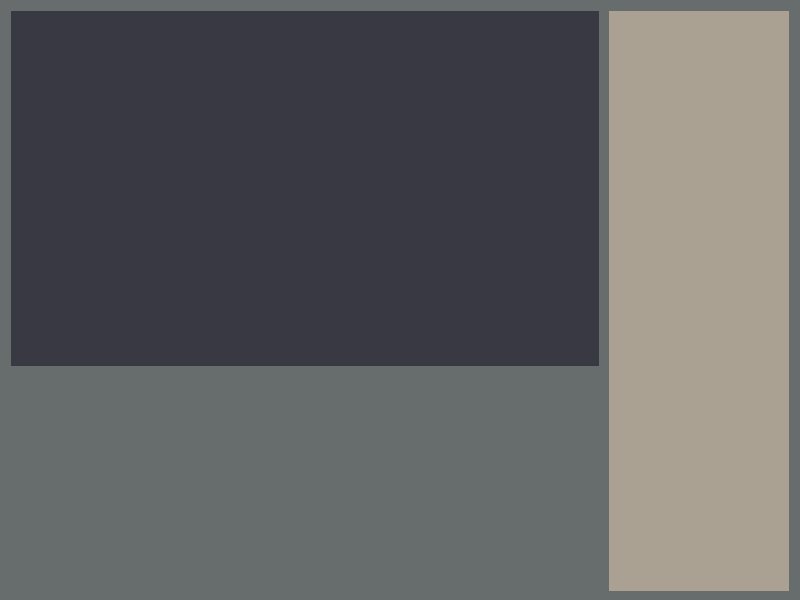
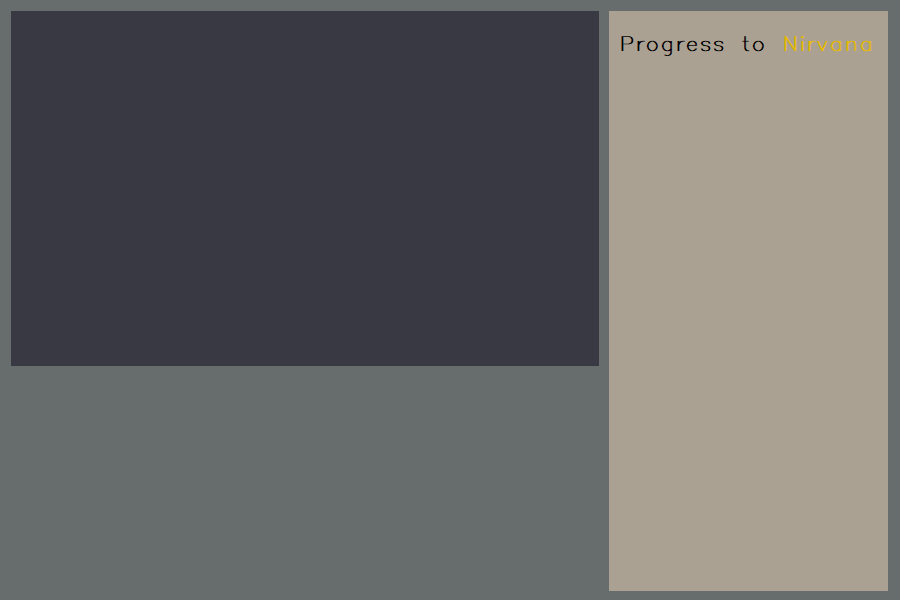
Main game

Changed region(s): [[0.6562, 0.0, 0.9688, 0.99]]

diff --git a/main.py b/main.py
@@ -20,21 +20,26 @@ class Button:
 
 # for each button check if it was pressed
 def do_roll(mouse_pos):
+    global scroll
     for b in buttons:
         if ((mouse_pos[0] > b.rect[0]) and
                 (mouse_pos[0] < b.rect[0] + b.rect[2]) and
                 (mouse_pos[1] > b.rect[1]) and
                 (mouse_pos[1] < b.rect[1] + b.rect[3])):
 
-            # change curr_pos here
-            need = True
-            while need:
-                num = roll()
-                if num in moves[player.curr_pos]:  # valid roll
-                    need = False
-                    player.curr_pos = moves[player.curr_pos][num]
+            #Check win
+            if player.curr_pos == 104:
+                print('you won!')
+            else:
+                # change curr_pos here
+                need = True
+                while need:
+                    num = roll()
+                    if num in moves[player.curr_pos]:  # valid roll
+                        need = False
+                        player.curr_pos = moves[player.curr_pos][num]
 
-            # print("You rolled: ", num)
+            scroll = 0
             return b.name
 
 
@@ -47,6 +52,21 @@ def draw():
 
     # Main text
     draw_text(screen, texts[player.curr_pos], WHITE, [20, 50, 550, 300], scroll)
+
+    block_size = 30
+    # grid
+    for y in range(13):
+        for x in range(8):
+            rect = pygame.Rect((x+18)*(block_size+4.15), (y+2.15)*(block_size+9), block_size, block_size)
+            pos = (13-(y+1))*8 + (x+1)
+            if pos == 104:  # Nirvana
+                pygame.draw.rect(screen, (230, 184, 0), rect)
+            elif pos == 1 or pos == 48:  # hells
+                pygame.draw.rect(screen, (138, 21, 56), rect)
+            elif pos == player.curr_pos:  # player
+                pygame.draw.rect(screen, (57, 83, 189), rect)
+            else:
+                pygame.draw.rect(screen, (71, 72, 84), rect)
 
     for b in buttons:
         if b.enabled:
@@ -120,12 +140,12 @@ if __name__ == "__main__":
     # setup and render
     player = Player(1)
     buttons = [
-        Button('>ROLL', [20, 400, 150, 50], [125, 125, 125], True)
+        Button('>ROLL AND BE REBORN', [20, 400, 260, 50], [125, 125, 125], True)
     ]
 
     background_colour = (0, 0, 0)
     WHITE = (255, 255, 255)
-    (width, height) = (800, 600)
+    (width, height) = (900, 600)
     screen = pygame.display.set_mode((width, height))
     screen.fill(background_colour)
     pygame.display.set_caption('Rebirth: The Tibetan Game of Liberation')
@@ -153,7 +173,7 @@ if __name__ == "__main__":
                     if scroll > 0:
                         scroll -= 1
                 if event.button == 5:
-                    if scroll < 20:
+                    if scroll < 70:
                         scroll += 1
 
         # game logic
